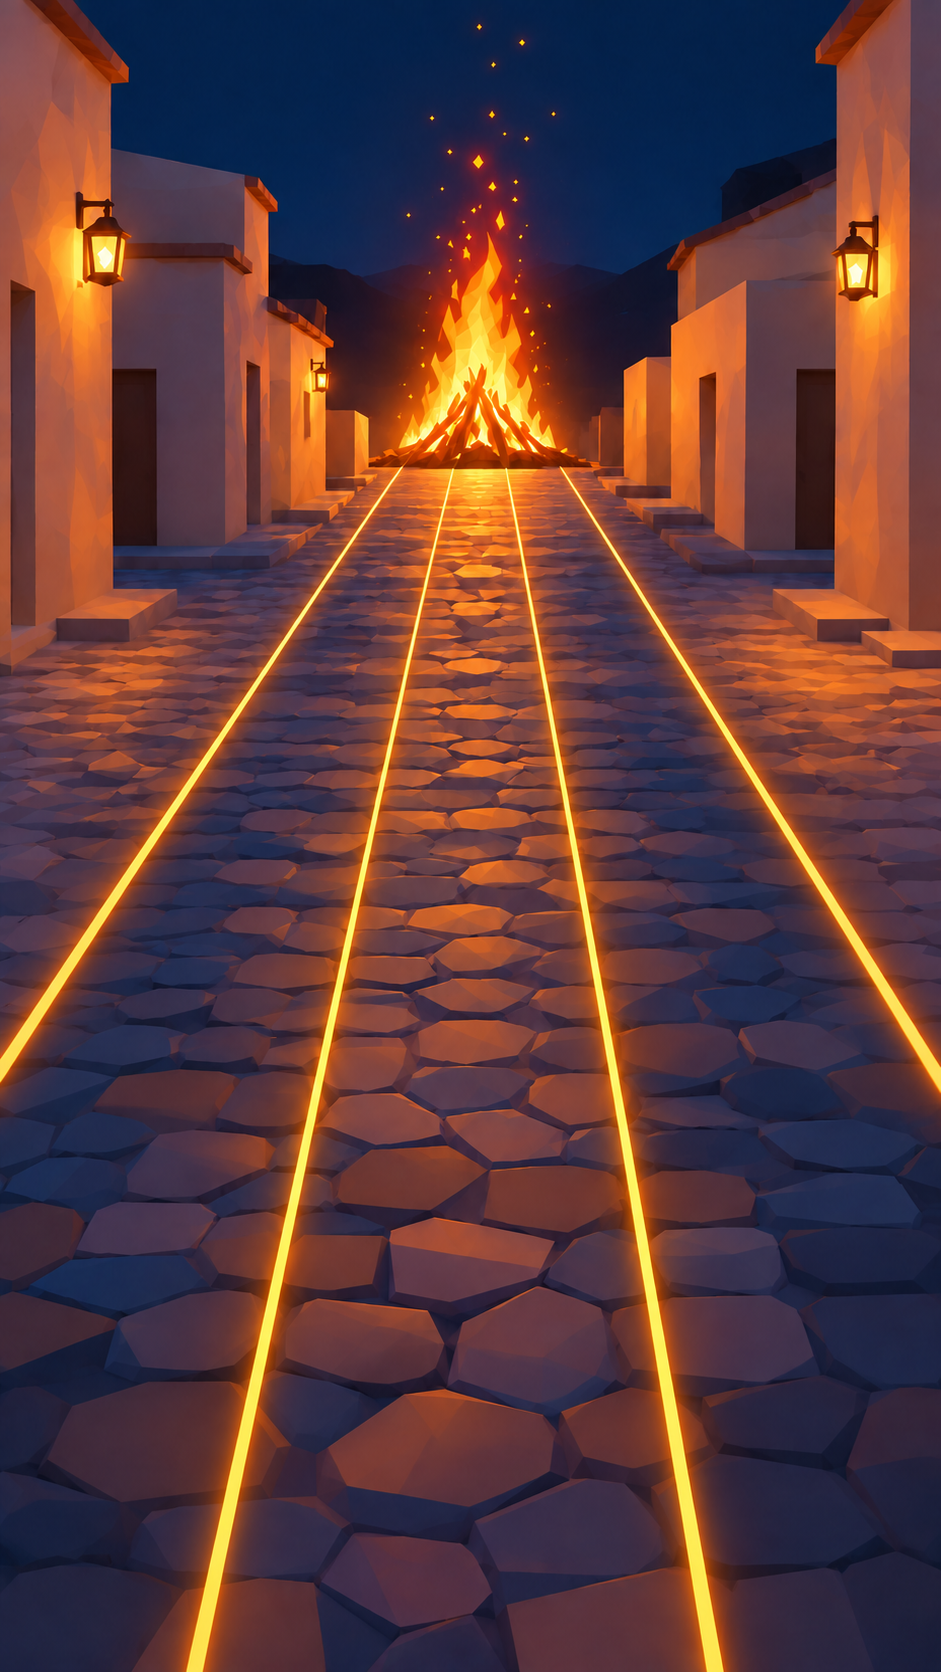
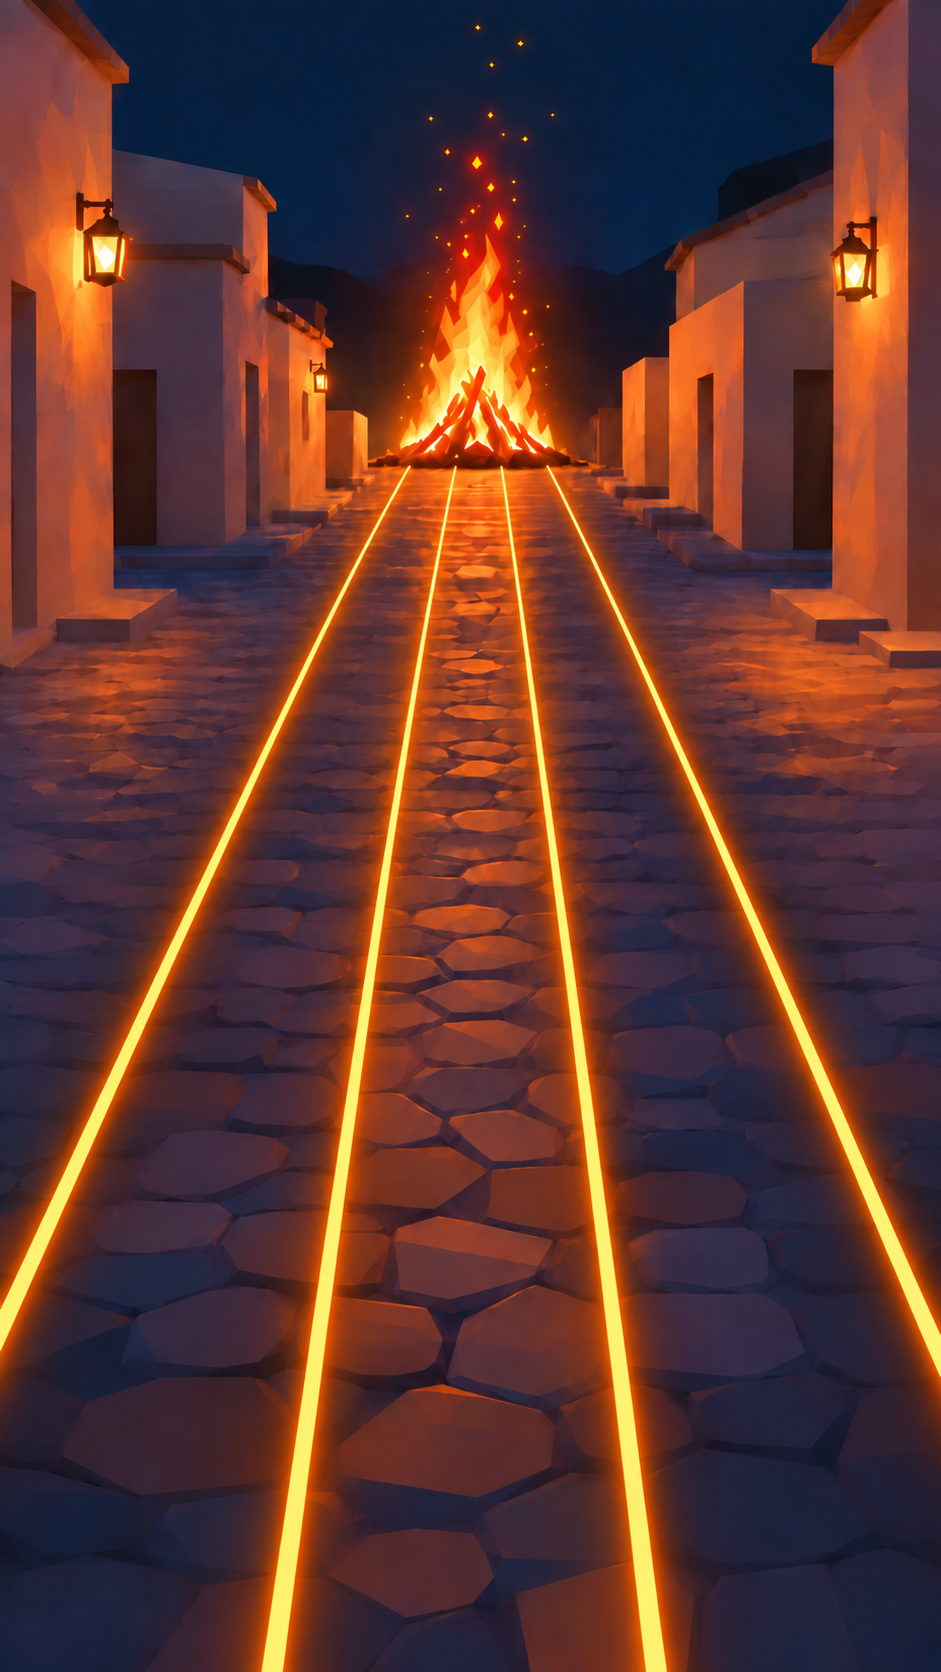
Play background: Daniele's newest road (lines closer together)
Re-measured the four glowing lines. The outer lanes now stay on screen at the hit line without
stretching the picture on a 720x1440 phone.

Claude-Session: https://claude.ai/code/session_01MEVcaXhkfESzetw3bREgwY

diff --git a/tools/art/street/cut_figures.py b/tools/art/street/cut_figures.py
@@ -101,5 +101,5 @@ for name, (src, box, tol) in CUTS.items():
     img = cut(src, box, tol)
     img.save(os.path.join(OUT, name + ".png"))
     print(name, img.size)
-Image.open(os.path.join(SRC, "street_tall_v2.png")).convert("RGB").save(os.path.join(OUT, "street.png"))
+Image.open(os.path.join(SRC, "street_tall_v3.png")).convert("RGB").save(os.path.join(OUT, "street.png"))
 print("street copied")
